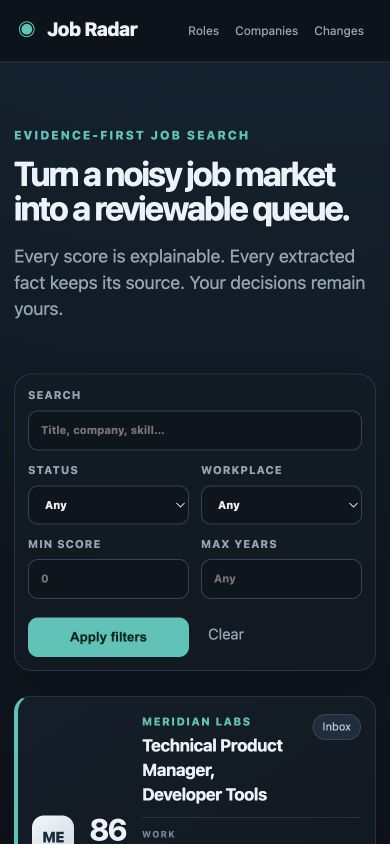
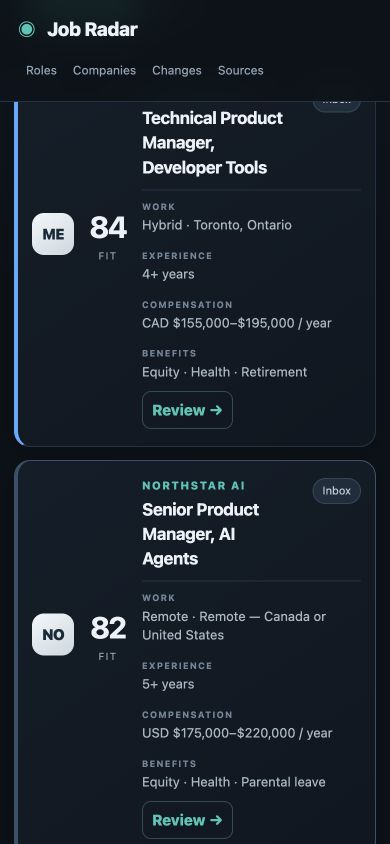
Document and package privacy-safe product demo

diff --git a/src/job_radar/export.py b/src/job_radar/export.py
@@ -90,8 +90,8 @@ def render_markdown(rows: list[dict]) -> str:
     lines = [
         "# Sample roles pulled in 2026",
         "",
-        "This is a static, fictional product sample generated by `job-radar export-sample`. ",
-        "It contains role facts and ranking output only—never application status, notes, tags, ",
+        "This is a static, fictional product sample generated by `job-radar export-sample`.",
+        "It contains role facts and ranking output only—never application status, notes, tags,",
         "contacts, personal configuration, or full job descriptions.",
         "",
         "| Company | Role | Location / work model | Experience | Compensation | Score | Why / concern |",
@@ -112,7 +112,7 @@ def render_markdown(rows: list[dict]) -> str:
     lines.extend(
         [
             "",
-            "The companion [CSV](sample-roles-2026.csv) includes benefits, the supporting ",
+            "The companion [CSV](sample-roles-2026.csv) includes benefits, the supporting",
             "experience sentence, first-seen date, and fictional source URL for each row.",
             "",
         ]

diff --git a/README.md b/README.md
@@ -1,94 +1,139 @@
 # Job Radar
 
-**An evidence-first, local job search workspace.** Job Radar turns public job feeds into a ranked, reviewable queue while keeping source facts, automated analysis, and human decisions clearly separated.
+Job Radar is a local job search platform that collects roles from public company job boards, removes conservative duplicates, extracts useful facts with evidence, ranks each role against a configurable target profile, and keeps personal application activity separate from source data.
 
-The project is designed around a simple premise: job-search software should help you decide—not quietly invent facts or overwrite your memory.
+It is built for the part of a job search that usually falls between dozens of browser tabs and a spreadsheet: understanding what is worth reviewing, remembering why, and seeing what changed after the next refresh.
 
-> This repository is a privacy-safe product derivative. The bundled dataset is fictional, the default experience requires no accounts or API keys, and no personal job-search history is included.
+> This repository is a privacy-safe standalone product. Its companies, roles, URLs, and activity are fictional. It contains no personal job-search records or private deployment history.
 
-![Job Radar desktop dashboard](docs/job-radar-desktop.jpg)
+![Job Radar role queue](docs/job-radar-desktop.jpg)
 
-<details>
-<summary>Mobile view</summary>
+**See the output first:** [browse the static sample roles](docs/sample-output/sample-roles-2026.md) or [download the CSV](docs/sample-output/sample-roles-2026.csv). Both are generated from the fictional demo and deliberately exclude application status, notes, tags, contacts, personal settings, and full job descriptions.
 
-![Job Radar mobile dashboard](docs/job-radar-mobile.jpg)
+## The primary workflow
 
-</details>
+1. **Configure targets.** Set role terms, skills, preferred locations and work models, experience, and a compensation floor in `config.yaml`.
+2. **Collect roles.** Load the offline demo or refresh public Greenhouse, Lever, and Ashby boards.
+3. **Understand the ranking.** Inspect the component score and exact text supporting experience, workplace, compensation, and benefits.
+4. **Filter and compare.** Search by title, company, or skill; narrow by location, work model, experience, score, pay, currency, and status.
+5. **Triage deliberately.** Shortlist, mark applied, dismiss, tag, and write notes. Refreshes cannot overwrite these fields.
+6. **Review the market.** Compare companies, inspect day-over-day additions/edits/closures, and check source health.
 
-## What it demonstrates
+<table>
+<tr><td><img src="docs/job-radar-detail.jpg" alt="Evidence and score detail"></td><td><img src="docs/job-radar-sources.jpg" alt="Independent source health"></td></tr>
+<tr><td align="center"><em>Facts keep their source text.</em></td><td align="center"><em>One failed source cannot close another source's roles.</em></td></tr>
+</table>
 
-- **Evidence-backed extraction.** Experience, workplace, and benefits retain the exact source text that supports them. Missing data stays unknown.
-- **Explainable ranking.** A deterministic score exposes role, skill, experience, location, and freshness components.
-- **Human-owned workflow.** Shortlists, applications, dismissals, notes, and tags live in a separate table and survive every refresh.
-- **Change intelligence.** Idempotent ingestion records additions and meaningful updates without turning them into notification noise.
-- **Portfolio and company views.** Review individual roles or inspect opportunity density by company.
-- **Responsive, local-first UI.** FastAPI, Jinja, and SQLite keep the stack inspectable and easy to run.
+## Try it locally
 
-## Run the demo
-
-Requires Python 3.11+.
+Python 3.11+ is required. The default demo needs no account, network access, or API key.
 
 ```bash
-python -m venv .venv
+python3.11 -m venv .venv
 source .venv/bin/activate
 pip install -e '.[dev]'
 job-radar init-demo
 job-radar serve
 ```
 
-Open [http://127.0.0.1:8876](http://127.0.0.1:8876). The demo loads eight fictional roles spanning remote, hybrid, and in-person work.
+Open [http://127.0.0.1:8876](http://127.0.0.1:8876). The demo ingests ten fictional source records from two feeds and merges one duplicate into nine canonical roles.
 
-With Docker:
+The same demo runs in Docker:
 
 ```bash
 docker build -t job-radar .
 docker run --rm -p 8876:8876 job-radar
 ```
 
-## Product architecture
+## Use public job boards
 
-```text
-public sources → normalized job facts → evidence + deterministic score
-                                      ↘ change log
-human review  → separate triage state → shortlist / applied / dismissed
-```
-
-The separation is intentional. A source refresh can update a title or mark a role inactive, but it cannot claim that a person applied. See [Architecture](docs/architecture.md) for the data boundaries and extension points.
-
-## Configuration
-
-Copy `config.example.yaml` to `config.yaml` and adapt the generic target profile. The bundled demo remains the no-network default. Opt-in Greenhouse, Lever, and Ashby adapters use public board tokens rather than credentials:
+Copy `config.example.yaml` to `config.yaml`, adjust the target profile, and add public board tokens. GET requests to the supported job-board endpoints do not require application credentials.
 
 ```bash
 cp config.example.yaml config.yaml
-# add public board tokens, then:
 job-radar refresh-sources --config config.yaml
+job-radar source-health
 ```
 
-Environment variables:
+Supported sources:
 
-| Variable | Default | Purpose |
-|---|---:|---|
-| `JOB_RADAR_DB` | `./job-radar.db` | SQLite database path |
-| `JOB_RADAR_HOST` | `127.0.0.1` | Bind address |
-| `JOB_RADAR_PORT` | `8876` | Web port |
+- [Greenhouse Job Board API](https://docs.greenhouse.io/job-board.html)
+- [Lever Postings API](https://github.com/lever/postings-api)
+- [Ashby Job Postings API](https://developers.ashbyhq.com/docs/public-job-posting-api)
 
-## Quality and privacy
+Each source is fetched and committed independently. A timeout, parse failure, or suspicious empty response is recorded as a failed run and leaves previously seen roles active. An intentionally empty board can opt in with `allow_empty: true`.
+
+## How extraction works
+
+Rules run first. They extract explicit facts and retain the supporting sentence, method, and confidence. The platform does not infer a workplace policy from vague phrases, convert currencies silently, or turn “preferred” experience into a binding minimum.
+
+An optional LLM fallback can fill fields that remain missing. It is:
+
+- off by default;
+- called only for unresolved fields;
+- behind a small provider interface, with an OpenAI-compatible adapter included;
+- constrained to a JSON schema;
+- rejected field by field unless every result cites an exact substring from the posting;
+- fully mocked in tests, so CI never needs paid model access.
+
+Enabling it is an explicit privacy decision because job text leaves the machine:
+
+```yaml
+llm_fallback:
+  enabled: true
+  endpoint: https://your-provider.example/v1/chat/completions
+  model: your-model
+  api_key_env: JOB_RADAR_LLM_API_KEY
+```
+
+## Data and decision boundaries
+
+```text
+public ATS boards ──→ source records ──→ conservative deduplication ──→ canonical roles
+                                             │                              │
+                                             │                       rules first
+                                             │                              │
+                                             └─ source health       cited facts + score
+                                                                            │
+human review ───────────────────────────────────────────────→ separate private state
+                                                              status · tags · notes
+```
+
+- `job_sources` records what each board returned.
+- `jobs` stores canonical roles, extracted facts, evidence, and deterministic score components.
+- `human_state` stores user-owned status, tags, and notes; ingestion never writes it.
+- `runs` and `changes` make source health and day-over-day changes auditable.
+
+The [architecture note](docs/architecture.md) explains identity, failure, and persistence decisions in more detail.
+
+## Quality checks
 
 ```bash
 ruff check src tests
 pytest --cov=job_radar
 ```
 
-CI runs linting, tests, coverage, and a Gitleaks secret scan. The [privacy model](docs/privacy.md) documents what is intentionally excluded from the repository and the release checklist used before publication.
+CI runs linting, unit/integration tests, coverage, and a Gitleaks scan. Tests cover source normalization, cross-source deduplication, idempotency, source-scoped closures, suspicious empty responses, failed-source preservation, extraction evidence, currency handling, mocked LLM fallback validation, filters, triage, CLI onboarding, and migration from the early demo schema.
+
+The interface is also manually checked at a 390px viewport. Filters become a compact two-column form, role cards collapse to one-column facts, and the decision and evidence views remain fully usable.
+
+<img src="docs/job-radar-mobile.jpg" alt="Job Radar role cards at a 390px mobile viewport" width="300">
+
+## Deliberate limitations
+
+- Deduplication is conservative: it merges normalized company + title + location matches. Near-duplicates with materially different location text remain separate to avoid collapsing distinct requisitions.
+- Compensation is extracted only when a numeric range is explicit. USD and CAD remain distinct; Job Radar does not silently apply exchange rates.
+- The bundled score is a transparent heuristic, not a prediction of interview success.
+- The current web UI is single-user and local. Authentication and hosted multi-user deployment are out of scope.
+- Greenhouse, Lever, and Ashby are supported; broader proprietary career sites need additional adapters.
+- LLM fallback currently supports an OpenAI-compatible chat-completions transport. The extraction contract itself is provider-independent.
 
 ## Roadmap
 
-- Connector health reporting and per-source failure isolation
-- Salary evidence and currency normalization
-- Saved filter views and keyboard triage
-- Batch reconciliation proposals for application confirmations
-- Optional local or hosted LLM adapter with cached, cited outputs
-- Export/import and multi-profile support
+1. Gold-fixture evaluation for extraction precision and recall
+2. Published-at normalization and true freshness scoring
+3. Salary-period normalization with explicit conversion assumptions
+4. Saved views and keyboard-first triage
+5. Export/import and optional encrypted backups
 
-Contributions and product critique are welcome. This is an early, opinionated release rather than a finished recruiting platform.
+See the [privacy and release checklist](docs/privacy.md) before changing repository visibility.

diff --git a/docs/architecture.md b/docs/architecture.md
@@ -1,24 +1,78 @@
-# Architecture
+# Architecture and design decisions
 
-Job Radar has four explicit layers:
+Job Radar is intentionally a small, inspectable system: a command-line refresh path, SQLite, and a server-rendered FastAPI interface. The product boundary matters more than the number of services.
 
-1. **Source records** are normalized from a connector without modifying their meaning.
-2. **Extracted facts** keep evidence and use `unknown` when the source is silent.
-3. **Analysis** is derived and reproducible. The score breakdown is stored next to the total.
-4. **Human state** records decisions, notes, and tags in a separate table.
+## Data flow
 
-## Why the separation matters
+```text
+configured public boards
+        │
+        ▼
+connector normalization ── failure recorded per source
+        │
+        ▼
+source records (`job_sources`)
+        │
+        ├── conservative identity match ──→ canonical roles (`jobs`)
+        │                                      │
+        │                                      ├── rule extraction + cited facts
+        │                                      ├── optional cited LLM fallback
+        │                                      └── deterministic score breakdown
+        │
+        └── refresh history (`runs`) + material role changes (`changes`)
 
-A source can change independently of the person reviewing it. Ingestion therefore owns `jobs`, while the user owns `human_state`. The refresh path never writes application status. This makes a failed extraction recoverable and a personal decision durable.
+human review ─────────────────────────────→ private state (`human_state`)
+                                             status · tags · notes
+```
 
-## Current schema
+## Source failure is not a closure
 
-- `jobs`: current normalized facts, evidence, analysis, first/last seen, active state
-- `human_state`: status, notes, tags, and last human update
-- `changes`: append-only observations for added or changed source records
-- `runs`: refresh-level operational history
+Connectors return one result per configured source. Fetching and persistence are isolated at that boundary:
 
-## Extension points
+- A source commits only after its complete payload is normalized and extracted.
+- A source failure records a failed run and does not touch prior source mappings.
+- An empty response after a previously non-empty response fails closed unless the source explicitly sets `allow_empty: true`.
+- Missing records deactivate only mappings from the source that successfully refreshed.
+- A canonical role closes only when none of its source mappings remain active.
 
-Connectors should produce the small normalized job dictionary consumed by `refresh()`. Extraction and scoring are pure functions, making them straightforward to test against a gold fixture set. A future LLM adapter belongs after normalization and must return cited evidence; it should never write human state.
+This prevents one broken board from making unrelated jobs disappear.
 
+## Conservative deduplication
+
+The deduplication key normalizes company, title, and stated location. A new source record with the same key attaches to the existing canonical role. This is deliberately conservative: a different location remains a separate role rather than risking a false merge.
+
+Canonical content comes from a stable primary source chosen deterministically. This avoids alternating URLs or descriptions when the same role arrives through two feeds. All observed sources remain visible on the role detail page.
+
+## Facts before analysis
+
+The extractor stores the result and its provenance separately:
+
+- exact supporting sentence or substring;
+- source field;
+- extraction method (`rule` or `llm_fallback`);
+- confidence.
+
+Rules run first for experience, workplace, compensation, and benefits. Unknown is a valid result. Preferred experience is kept as evidence but does not become the binding minimum. Currency is stored, not converted silently.
+
+If explicitly configured, the LLM fallback receives only the fields still missing. Its response must match a strict schema, and every field is rejected unless its quote is an exact substring of the source posting. This improves recall without turning model output into unreviewable fact.
+
+## Explainable ranking
+
+The default score is a configurable heuristic, not a model prediction. Every total is the sum of bounded components:
+
+- role match: 30
+- skill match: 25
+- experience fit: 20
+- location fit: 10
+- work-model flexibility: 5
+- compensation fit: 10
+
+Each stored component includes both earned points and its maximum. Flexibility compares the posting's explicit work model with the configured workplace preferences. Compensation is compared with the configured floor only when currencies match; otherwise it remains neutral and produces a visible concern.
+
+## Human state is a separate owner
+
+Ingestion owns source facts. The user owns application status, tags, and notes. The refresh path never writes `human_state`, so a job-board edit cannot claim that a person applied or erase their context.
+
+## Why server-rendered HTML
+
+The current interaction model is filter, inspect, and submit a small form. FastAPI, Jinja, and plain CSS keep setup simple, work without a JavaScript build chain, and remain easy to audit. A richer client framework would add deployment and state complexity without improving the core workflow yet.

diff --git a/docs/sample-output/sample-roles-2026.md b/docs/sample-output/sample-roles-2026.md
@@ -1,0 +1,20 @@
+# Sample roles pulled in 2026
+
+This is a static, fictional product sample generated by `job-radar export-sample`.
+It contains role facts and ranking output only—never application status, notes, tags,
+contacts, personal configuration, or full job descriptions.
+
+| Company | Role | Location / work model | Experience | Compensation | Score | Why / concern |
+|---|---|---|---|---|---:|---|
+| Meridian Labs | Technical Product Manager, Developer Tools | Toronto, Ontario · Hybrid | 4+ years | CAD $155,000–$195,000 per year | 84 | Role match: product manager, technical product manager; Skill match: developer tools, analytics, platform **Concern:** Listed compensation uses a different currency; no conversion was assumed |
+| Northstar AI | Senior Product Manager, AI Agents | Remote — Canada or United States · Remote | 5+ years | USD $175,000–$220,000 per year | 82 | Role match: product manager; Skill match: ai, machine learning, platform **Concern:** No obvious blocker |
+| Lattice Forge | Product Manager, AI Platform | Remote — Canada · Remote | 4+ years | CAD $150,000–$185,000 per year | 77 | Role match: product manager; Skill match: ai, machine learning, platform **Concern:** Listed compensation uses a different currency; no conversion was assumed |
+| Atlas Systems | Product Manager, AI Growth | San Francisco, CA · Hybrid | 3+ years | USD $150,000–$185,000 per year | 76 | Role match: product manager; Skill match: ai, analytics **Concern:** No obvious blocker |
+| Harbor Intelligence | Product Manager, Trust & Safety AI | San Francisco or Remote US · Remote or hybrid | 5+ years | USD $180,000–$225,000 per year | 74 | Role match: product manager; Skill match: ai **Concern:** No obvious blocker |
+| Kinetic Cloud | Product Lead, Model Evaluation Platform | New York, NY · In person | 7+ years | USD $190,000–$245,000 per year | 71 | Role match: product lead; Skill match: ai, machine learning, platform **Concern:** Requests 7+ years; profile target is 6 |
+| Northstar AI | Product Manager, AI Observability | Remote · Remote | 4+ years | Not stated | 71 | Role match: product manager; Skill match: ai, analytics **Concern:** Compensation is not stated |
+| Signal Works | Senior Product Manager, Data Platform | Austin, TX · In person | 6+ years | USD $160,000–$205,000 per year | 71 | Role match: product manager; Skill match: ai, analytics, platform **Concern:** Location preference is not explicit |
+| Meridian Labs | Product Manager, Enterprise AI | Remote — North America · Remote | 5+ years | CAD $145,000–$180,000 per year | 65 | Role match: product manager; Skill match: ai **Concern:** Listed compensation uses a different currency; no conversion was assumed |
+
+The companion [CSV](sample-roles-2026.csv) includes benefits, the supporting
+experience sentence, first-seen date, and fictional source URL for each row.

diff --git a/docs/privacy.md b/docs/privacy.md
@@ -13,6 +13,12 @@ This repository was created as a clean product derivative, not as a mirror of a 
 
 The bundled companies, jobs, descriptions, and links are fictional sample data.
 
+## Optional external model boundary
+
+Rule-based extraction is local and always runs first. The LLM fallback is disabled unless a user explicitly sets `llm_fallback.enabled: true`, configures an endpoint/model, and supplies a key through an environment variable. Enabling it sends job-description text to that configured provider. Model output is schema-validated and must cite exact source text before persistence.
+
+No model credentials or calls are needed for the demo, tests, CI, or public ATS connectors.
+
 ## Before a public release
 
 1. Run tests and linting.
